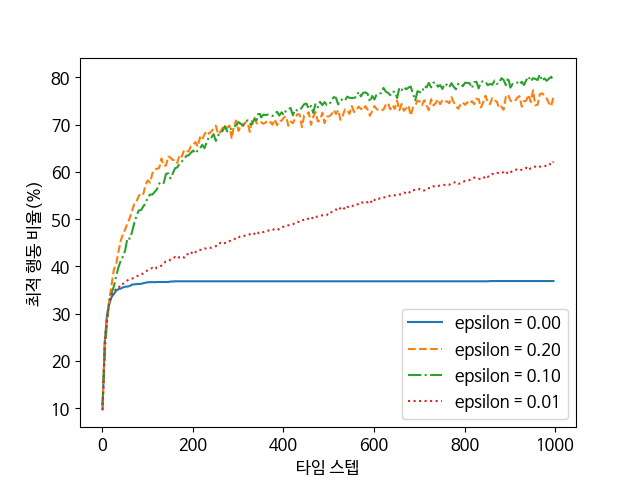
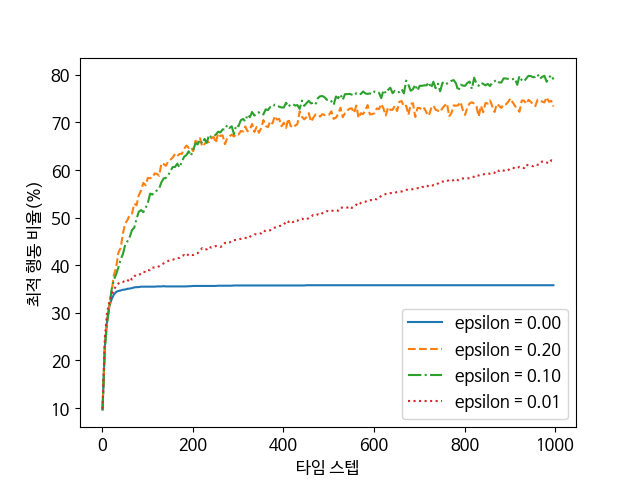
...

diff --git a/chapter_02/10-armed-bandit.py b/chapter_02/10-armed-bandit.py
@@ -1,13 +1,3 @@
-"""
-###############################################################################################
-    10-Armed Testbed (Reinforcement Learning: An Introduction, Sutton, Barto)
-    Created by Youn-Hee Han 12/27/2019, last update 12/27/2019
-
-    코드 참고 사이트:
-    한글 폰트 설치 참고 사이트: https://programmers.co.kr/learn/courses/21/lessons/950
-###############################################################################################
-"""
-
 import numpy as np
 import matplotlib.pyplot as plt
 import os
@@ -163,7 +153,7 @@ class Bandit(object):
     # 받아낸 보상 값을 통하여 추정 가치 갱신
     def step(self, selected_action, testbed):
         # 보상은 정규 분포(평균: q_*(at), 표준편차: 1)로 부터 샘플링함
-        reward = np.random.normal(testbed.q_true[selected_action], scale=1)
+        reward = np.random.normal(testbed.q_true[selected_action], scale=testbed.std)
 
         self.count_of_actions[selected_action] += 1     # 행동 수행 횟수 1 증가
 
@@ -547,9 +537,9 @@ def comparison_of_all_methods(max_runs, max_time_steps):
 
 if __name__ == '__main__':
     # prob_distribution_of_rewards()
-    # greedy_and_epsilon_greedy(max_runs=2000, max_time_steps=1000)
-    # greedy_and_epsilon_greedy(max_runs=2000, max_time_steps=4000)
-    #q_estimation_initial(max_runs=2000, max_time_steps=1000)
-    ucb_section(max_runs=2000, max_time_steps=1000)
-    #gradients(max_runs=2000, max_time_steps=1000)
-    #comparison_of_all_methods(max_runs=2000, max_time_steps=1000)
+    greedy_and_epsilon_greedy(max_runs=3000, max_time_steps=1000)
+    # greedy_and_epsilon_greedy(max_runs=3000, max_time_steps=4000)
+    #q_estimation_initial(max_runs=3000, max_time_steps=1000)
+    # ucb_section(max_runs=3000, max_time_steps=1000)
+    #gradients(max_runs=3000, max_time_steps=1000)
+    #comparison_of_all_methods(max_runs=3000, max_time_steps=1000)

diff --git a/environments/tic_tac_toe.py b/environments/tic_tac_toe.py
@@ -1,5 +1,6 @@
 import gym
 import numpy as np
+from termcolor import colored
 
 PLAYER_TO_SYMBOL = ['*', 'O', 'X']
 PLAYER_1 = 1
@@ -128,15 +129,25 @@ class State:
         else:
             return [[i, j] for i in range(BOARD_ROWS) for j in range(BOARD_COLS) if self.data[i, j] == 0]
 
-    # 게임판 출력
+    #게임판 출력
     def print_board(self):
+        s = "-------------------\n"
         for i in range(self.board_rows):
-            print('-------------')
-            out = '| '
             for j in range(self.board_cols):
-                out += PLAYER_TO_SYMBOL[int(self.data[i, j])] + ' | '
-            print(out)
-        print('-------------')
+                s += "|{0}    ".format(i * 3 + j)
+            s += "|\n"
+
+            for j in range(self.board_cols):
+                s += "|  {0}  ".format(colored("*OX"[int(self.data[i, j])], "red"))
+            s += "|\n"
+
+            for j in range(self.board_cols):
+                s += "|     ".format(i * 3 + j)
+            s += "|\n"
+
+            s += "-------------------\n"
+        print(s)
+
 
     def __repr__(self):
         self_str = ""

diff --git a/utils/logger.py b/utils/logger.py
@@ -1,10 +1,5 @@
-import logging, os, sys
+import logging, os
 from logging.handlers import RotatingFileHandler
-
-idx = os.getcwd().index("{0}rl_book_codes".format(os.sep))
-PROJECT_HOME = os.getcwd()[:idx+1] + "rl_book_codes{0}".format(os.sep)
-sys.path.append(PROJECT_HOME)
-
 
 def get_logger(name):
     """
@@ -18,11 +13,11 @@ def get_logger(name):
     logger.propagate = False
     logger.setLevel(logging.INFO)
 
-    if not os.path.exists(os.path.join(PROJECT_HOME, "logs")):
-        os.makedirs(os.path.join(PROJECT_HOME, "logs"))
+    if not os.path.exists(os.path.join("..", "logs")):
+        os.makedirs(os.path.join("..", "logs"))
 
     rotate_handler = RotatingFileHandler(
-        filename=os.path.join(PROJECT_HOME, "logs", name + ".log"),
+        filename=os.path.join("..", "logs", name + ".log"),
         mode='a',
         maxBytes=1024 * 1024 * 10,
         backupCount=5

diff --git a/chapter_10/per_ddqn.py b/chapter_10/per_ddqn.py
@@ -327,7 +327,7 @@ def ddqn_with_per(agent, n_episodes=2000, max_t=1000, eps_start=1.0, eps_end=0.0
             print('\nEnvironment solved in {:d} episodes! \tAverage Score: {:.2f}'.format(i_episode-10, np.mean(scores_window)))
             break
 
-env = gym.make('CartPole-v0')
+env = gym.make('CartPole-v1')
 env.seed(0)
 agent = DDQNPERAgent(state_size=4, action_size=2, seed=0)
 ddqn_with_per(agent, fname='ddqn_per')

diff --git a/README.md b/README.md
@@ -1,7 +1,11 @@
-### 1. 환경구성conda create -n rl_book_codes python=3.7
-- conda activate rl_book_codes
-- cd ~/git/rl_book_codes/
+### 1. 환경구성
+- conda create -n link_rl_book_codes python=3.7
+- conda activate link_rl_book_codes
+- cd ~/git/link_rl_book_codes/
 - pip install -r requirements.txt
 
 ### 2. requirements.txt 구성 
 - pip freeze > requirements.txt
+
+### 3. 한글 폰트 설치 참고 사이트
+- https://programmers.co.kr/learn/courses/21/lessons/950
